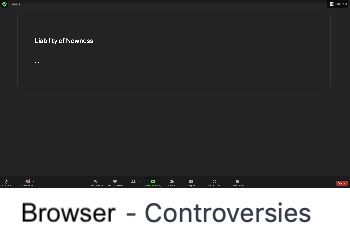
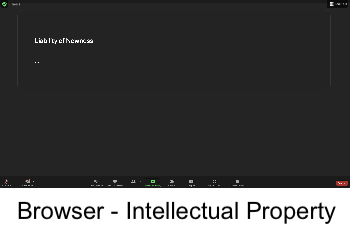
update

Changed region(s): [[0.0286, 0.8448, 0.9714, 0.9655]]

diff --git a/liabilitynewness.html b/liabilitynewness.html
@@ -45,8 +45,7 @@
     <img class = "w-100 h-100 mt-4 mb-4 position-absolute" src="images/chat_background.png">
     <div class="container mt-5 mb-5 mr-1 ml-3 position-absolute">
     <p class="mt-5 mb-5 mr-1 ml-5 p-3 position-relative rounded" style="background-color:rgb(239, 239, 239);" >
-            It is fascinating to see Zoom’s success despite all these controversies. Dr. Yoo, how did this happen? How was zoom able to become so popular despite these controversies? That’s a great question. And I think that in some ways, we can frame this as a question of how Zoom was able to overcome the problem known as the liability of newness. For many, the introduction of widespread use of virtual communication technologies was a very new thing. Let’s take a trip back to the time at which there was a lot of uncertainty. People weren’t sure they were going to be fully remote or fully virtual. What technologies could be used? What would be the protocol for education? Amidst this time of uncertainty, consider teachers in classrooms, professors in lecture halls, businesspeople in glass buildings all of a sudden being introduced to this somewhat foreign technology that proposes to replace in-person interaction. How would this new, foreign technology have had to be marketed such that it could help tip the scales toward transitioning to fully-remote learning on that technological platform? Here, I think we can look to history to see how innovators of the past overcame such potential hurdles. In 2001, Andrew Hargadon from the University of California and Yellowlees Douglas from the University of Florida published a paper detailing the intentional design and marketing decisions that Edison made to overcome the liability of newness in the system of electric light. At the time, gas lighting was the lighting to use. Consumers were used to gas lighting - the various methods of gas metering and paying for gas, and gas companies were used to the profits that came with the business. To establish the legitimacy of the system of electric light, Edison encapsulated the system of electric light within the infrastructure vocabulary of the system of gas lighting. For example, Edison’s electric lights came with wall designs that were similar to those of gas lighting. The wiring of electric lights were built around gas pipes. And power for electric lighting was produced in central stations, similar to gas lighting. Edison even went so far as to use the same metering technology. Why did Edison do this? By grounding the principles of electric lighting in the norms of the day, he could ease consumers into accepting the new technology. Now bringing us back to today, we can see how zoom was able to establish its legitimacy. In-person education is the established protocol for teaching and learning. To establish its legitimacy, we see how Zoom adopted vocabulary and structure from in-person learning. For example, Zoom adopted a whiteboard function that allows teachers and students to draw figures and write text, similar to classroom whiteboards. Zoom also adopted a “raise hand” function that shows a virtual hand raised when a student wants to ask a question. This doesn’t mean students actually raise their physical hand, but by borrowing the vocabulary of what students and teachers are familiar with, Zoom eases itself into market domination by providing a degree of comfort to its potential consumers. The list goes on. From breakout rooms that provide a structure similar to students physically “breaking out” into smaller groups as with in-person learning, to the waiting room function that mirrors the structure of in-person appointments that have a physical waiting room with a line of people, zoom has made many intentional design decisions that involve the function and naming of various features that have allowed it to flourish as an alternative to in-person communication.
-    
+            It is fascinating to see Zoom’s success despite all these controversies. How was Zoom able to become so popular despite these controversies? We can frame this as a question of how Zoom was able to overcome the problem known as the liability of newness. For many, the introduction of widespread use of virtual communication technologies was a very new thing. Let’s take a trip back to the time at which there was a lot of uncertainty. People weren’t sure they were going to be fully remote or fully virtual. What technologies could be used? What would be the protocol for education? Amidst this time of uncertainty, consider teachers in classrooms, professors in lecture halls, businesspeople in glass buildings all of a sudden being introduced to this somewhat foreign technology that proposes to replace in-person interaction. How would this new, foreign technology have had to be marketed such that it could help tip the scales toward transitioning to fully-remote learning on that technological platform? Here, I think we can look to history to see how innovators of the past overcame such potential hurdles. In 2001, Andrew Hargadon from the University of California and Yellowlees Douglas from the University of Florida published a paper detailing the intentional design and marketing decisions that Edison made to overcome the liability of newness in the system of electric light. At the time, gas lighting was the lighting to use. Consumers were used to gas lighting - the various methods of gas metering and paying for gas, and gas companies were used to the profits that came with the business. To establish the legitimacy of the system of electric light, Edison encapsulated the system of electric light within the infrastructure vocabulary of the system of gas lighting. For example, Edison’s electric lights came with wall designs that were similar to those of gas lighting. The wiring of electric lights were built around gas pipes. And power for electric lighting was produced in central stations, similar to gas lighting. Edison even went so far as to use the same metering technology. Why did Edison do this? By grounding the principles of electric lighting in the norms of the day, he could ease consumers into accepting the new technology. Now bringing us back to today, we can see how zoom was able to establish its legitimacy. In-person education is the established protocol for teaching and learning. To establish its legitimacy, we see how Zoom adopted vocabulary and structure from in-person learning. For example, Zoom adopted a whiteboard function that allows teachers and students to draw figures and write text, similar to classroom whiteboards. Zoom also adopted a “raise hand” function that shows a virtual hand raised when a student wants to ask a question. This doesn’t mean students actually raise their physical hand, but by borrowing the vocabulary of what students and teachers are familiar with, Zoom eases itself into market domination by providing a degree of comfort to its potential consumers. The list goes on. From breakout rooms that provide a structure similar to students physically “breaking out” into smaller groups as with in-person learning, to the waiting room function that mirrors the structure of in-person appointments that have a physical waiting room with a line of people, zoom has made many intentional design decisions that involve the function and naming of various features that have allowed it to flourish as an alternative to in-person communication.
     </p>
     </div>
 

diff --git a/scot.html b/scot.html
@@ -137,35 +137,42 @@
        }
     </script>
 
+    <div class="mt-3">
     <p id = "scot_tech" style = "visibility: hidden; background-color:rgb(239, 239, 239);" class="p-5 w-100 position-absolute rounded">
-        The rise, sustenance, future outlook of Zoom is both social and technical in nature - aka sociotechnical in nature.
+      With all of these concerns in mind, who do you think has the power to control zoom’s development going forward? I feel like there are a number of different players, or should I say social groups *wink wink*, in the development of remote work technologies. I think that the tech companies and the software engineers working in them have all the control in the development of remote work software. They are the ones that are doing all the programming for the user interface and feature. This social group sees remote work technologies as an avenue for revenue since they require users to pay for certain features, so this affects the development of the product most, because they want the technology to be efficient (meaning maximizing revenue with as few resources as possible). This means that the product team may initially cut corners in privacy to develop more visible features, like adding the ability to make emoji reactions on your favorite video conferencing app.<br><br>
 
-        * we have seen schools and workplaces open in-person in the past year. Data from CDC’s COVID Data Tracker show that, in the United States, the daily number of covid cases is dropping rapidly. And with such positive statistics, I hear that Princeton University recently retracted its mask mandate for students, staff, and faculty. This puts the remote work technology that we have been heavily relying on the past couple years in a very interesting position. So I wanted to look at our collective experience with remote work technologies, specifically the communications technologies, and see where it is headed and see if it will be remembered by future generations as a sort of blast from the past.
-
-        * According to the Pew Research Center, after the coronavirus outbreak, approximately 51% of employed adults shifted to remote working. Such drastic change in work styles gave rise to technologies like zoom, google meet, and microsoft teams. Just last month, in March, Zoom released 10 new updates. Among them is an interesting, new feature release from March 21 that allows users to replace their personas with 3-d virtual avatars that, if I were to just imagine, might introduce some fun into long, strenuous virtual meetings. Largely, though, when we consider these remote working technologies, we see them as replacements for in-person educational implements. Zoom, for example, displays a whiteboard, annotation tools, and a “raise hand” feature that mirror certain aspects of in-person education.
+      The business minds behind video conferencing technologies want revenue and educational institutions want a unified platform, so we have technologies like zoom, microsoft, and google offering different priced institution-wide licenses.
     </p>
 
     <p id = "scot_remoteworkers" style = "visibility: hidden; background-color:rgb(239, 239, 239);" class="p-5 w-100 position-absolute rounded" style="background-color:rgb(239, 239, 239);">
-        oink
+      I have a slightly different interpretation. I believe that the software companies are not the only ones that impact how remote working technologies progress. Let’s take a look at the remote workers, hackers and pranksters, as well as educational institutions and legal persons, and how they play a role in how remote work technology develops. Remote workers view this technology as a way of conducting work in a flexible, convenient, safe, private, and reliable manner. <br><br>
+
+      In our case, security and privacy demands from end users as well as our awareness of the desires of hackers and prankers have led to the development of extra security features - in the form of meeting passwords in zoom meetings and the waiting-room-like feature in microsoft teams and google meets that prevents bombers from directly entering the meeting room<br><br>
+
+      Remote workers wanting video communication to be more fun have led to the development of fun, customizable features, such as custom video backgrounds, zoom makeup masks, and Together Mode on Microsoft Teams that uses AI to place participants in one shared background. 
     </p>
 
     <p id = "scot_pranksters" style = "visibility: hidden; background-color:rgb(239, 239, 239);" class="p-5 w-100 position-absolute rounded" style="background-color:rgb(239, 239, 239);">
-        hello
+      Hackers and pranksters view this technology as a creative workspace for pulling pranks, one example being Zoombombing where these individuals join and disrupt these meetings.  <br><br>
+      
+      In our case, security and privacy demands from end users as well as our awareness of the desires of hackers and prankers have led to the development of extra security features - in the form of meeting passwords in zoom meetings and the waiting-room-like feature in microsoft teams and google meets that prevents bombers from directly entering the meeting room
     </p>
 
     <p id = "scot_education" style = "visibility: hidden; background-color:rgb(239, 239, 239);" class="p-5 w-100 position-absolute rounded" style="background-color:rgb(239, 239, 239);">
-        ?
+      Educational institutions see this technology as a unified educational platform; in other words, educational institutions would rather have a single institutional license that helps bring its students into the same network, rather than having each student create their own zoom account on their personal emails. <br><br>
+
+      The business minds behind video conferencing technologies want revenue and educational institutions want a unified platform, so we have technologies like zoom, microsoft, and google offering different priced institution-wide licenses.
     </p>
 
     <p id = "scot_legal" style = "visibility: hidden; background-color:rgb(239, 239, 239);" class="p-5 w-100 position-absolute rounded" style="background-color:rgb(239, 239, 239);">
-        alo
+      People working in law may see this technology as an avenue through which privacy must be preserved and accountability is clear.
     </p>
 
     <p id = "scot_closure" style = "visibility: hidden; background-color:rgb(239, 239, 239);" class="p-5 w-100 position-absolute rounded" style="background-color:rgb(239, 239, 239);">
-        a
+      The Social Construction of Technology model introduced by Kline and Pinch in 1996 may help us to understand why.. Isn’t the process of various social groups negotiating the design of remote work technology called interpretative flexibility? So what I understand is that this means that remote workers, hackers and pranksters, software engineers and companies, and educational institutions are pulling the development of the technologies in different directions. The various social groups competing against each other have culminated in the remote work technology we have today. 
     </p>
 
-
+</div>
 
 
     <!-- Footer - zoom buttons -->

diff --git a/bibliography.html b/bibliography.html
@@ -36,12 +36,31 @@
 
 
     <div class="container mt-4 mb-5 pt-5 pb-5" style="border: 1px solid rgb(55, 55, 55);border-radius: 25px; background-color: rgb(35, 35, 35);">
-    <h3 class="mt-5 mb-5 mr-5 ml-5" style="color:white">Bibliography</h3>
-    <h5 class="mt-5 mb-5 mr-5 ml-5" style="color:white">
-        * I’ll focus on Zoom, since it’s received the most press from what I know, but I’ll also touch on Microsoft Teams. One primary concern deals with security and privacy. Just last year around this time, BBC reported that Zoom was accused of transmitting user-data to facebook as well as being economical with the truth when it came to guaranteed end-to-end encryption. There have also been reports by an ex-NSA hacker of potential for microphone and webcam hijacking. The Verge and Bloomberg reported on Zoom disclosing personal information to third parties. Now this was about a year ago, but even now, we see that zoom is still working out the kinks. Just yesterday on April 1, zoom released a new feature that quote “Hides user personal information in contact details. The affected fields are: personal note, company, department, manager, job title, locations, internal number, extension, direct number, phone number, email.” That’s a lot, but privacy is not the only concern.
+    <h3 class="mt-5 mb-5 mr-5 ml-5" style="color:white;">Bibliography</h3>
+    <p class="mt-5 mb-5 mr-5 ml-5" style="color:white;font-size:large;">
+        [1]    J. Oakman, N. Kinsman, R. Stuckey, M. Graham, and V. Weale, “A rapid review of mental and physical health effects of working at home: how do we optimise health?,” BMC Public Health, vol. 20, no. 1, Art. no. 1, Dec. 2020, doi: 10.1186/s12889-020-09875-z.
+<br>
+        [2]    P. A. David, “Clio and the Economics of QWERTY,” The American Economic Review, vol. 75, no. 2, pp. 332–337, 1985.
+        <br>[3]    “Corporate America is coming around to remote work. But more big changes lie ahead.,” Washington Post. Accessed: Apr. 03, 2022. [Online]. Available: https://www.washingtonpost.com/business/2022/01/15/remote-work-omicron/
+        <br>[4]    CDC, “COVID Data Tracker,” Centers for Disease Control and Prevention, Mar. 28, 2020. https://covid.cdc.gov/covid-data-tracker (accessed Apr. 03, 2022).
+        <br>[5]    D. Reinecke, “EGR 277 Lecture 3 Notes.” https://princeton.instructure.com/courses/6109/files/1217971?module_item_id=255301 (accessed Apr. 03, 2022).
+        <br>[6]    D. Reinecke, “EGR277 Lecture 17 Notes.” https://princeton.instructure.com/courses/6109/files/1368482?module_item_id=274925 (accessed Apr. 03, 2022).
+        <br>[7]    S. University, “Four causes for ‘Zoom fatigue’ and their solutions,” Stanford News, Feb. 23, 2021. https://news.stanford.edu/2021/02/23/four-causes-zoom-fatigue-solutions/ (accessed Apr. 03, 2022).
+        <br>[8]    K. Parker, J. M. Horowitz, and R. Minkin, “How the Coronavirus Outbreak Has – and Hasn’t – Changed the Way Americans Work,” Pew Research Center’s Social & Demographic Trends Project, Dec. 09, 2020. https://www.pewresearch.org/social-trends/2020/12/09/how-the-coronavirus-outbreak-has-and-hasnt-changed-the-way-americans-work/ (accessed Apr. 03, 2022).
+        <br>[9]    “New Microsoft Teams features and tips to make virtual interactions and meetings more natural, engaging and human,” Microsoft Malaysia News Center, Jul. 09, 2020. https://news.microsoft.com/en-my/2020/07/09/new-microsoft-teams-features-and-tips-to-make-virtual-interactions-more-natural-engaging-and-human/ (accessed Apr. 03, 2022).
+        <br>[10]    “Release notes for April 1, 2022,” Zoom Support. https://support.zoom.us/hc/en-us/articles/5189043388045-Release-notes-for-April-1-2022 (accessed Apr. 03, 2022).
+        <br>[11]    B. R. Ph.D, “Remote Work Is Here To Stay And Will Increase Into 2023, Experts Say,” Forbes. https://www.forbes.com/sites/bryanrobinson/2022/02/01/remote-work-is-here-to-stay-and-will-increase-into-2023-experts-say/ (accessed Apr. 03, 2022).
+        <br>[12]    B. R. Ph.D, “Remote Workers Report Negative Mental Health Impacts, New Study Finds,” Forbes. https://www.forbes.com/sites/bryanrobinson/2021/10/15/remote-workers-report-negative-mental-health-impacts-new-study-finds/ (accessed Apr. 03, 2022).
+        <br>[13]    J. K. published, “This Microsoft Teams update could be the most controversial yet,” TechRadar, Sep. 07, 2021. https://www.techradar.com/news/this-microsoft-teams-update-could-be-the-most-controversial-yet (accessed Apr. 03, 2022).
+        <br>[14]    “U.S. COVID-19 transmission rate by state,” Statista. https://www.statista.com/statistics/1119412/covid-19-transmission-rate-us-by-state/ (accessed Apr. 03, 2022).
+        <br>[15]    R. Kline and T. Pinch, “Users as Agents of Technological Change: The Social Construction of the Automobile in the Rural United States,” Technology and Culture, vol. 37, no. 4, pp. 763–795, 1996, doi: 10.2307/3107097.
+        <br>[16]    A. B. Hargadon and Y. Douglas, “When Innovations Meet Institutions: Edison and the Design of the Electric Light,” Administrative Science Quarterly, vol. 46, no. 3, pp. 476–501, 2001, doi: 10.2307/3094872.
+        <br>[17]    “Zoom boss apologises for security issues and promises fixes,” BBC News, Apr. 02, 2020. Accessed: Apr. 03, 2022. [Online]. Available: https://www.bbc.com/news/technology-52133349
+        <br>[18]    T. Warren, “Zoom faces a privacy and security backlash as it surges in popularity,” The Verge, Apr. 01, 2020. https://www.theverge.com/2020/4/1/21202584/zoom-security-privacy-issues-video-conferencing-software-coronavirus-demand-response (accessed Apr. 03, 2022).
+<br>[19]    “Zoom Releases by Date – Zoom Support.” https://support.zoom.us/hc/en-us/sections/360008531132-Zoom-Releases-by-Date (accessed Apr. 03, 2022).
+<br>[20]    “Zoom Sued for Allegedly Illegally Disclosing Personal Data,” Bloomberg.com, Mar. 31, 2020. Accessed: Apr. 03, 2022. [Online]. Available: https://www.bloomberg.com/news/articles/2020-03-31/zoom-sued-for-allegedly-illegally-disclosing-personal-data
 
-        * I believe Microsoft Teams has also had their fair share of backlash for controversial features. TechRadar expressed concerns on Microsoft allowing meeting moderators to censor communication in a meeting such as deleting certain chat messages which could potentially lead to serious miscommunication and loss of context. 
-    </h5>
+    </p>
     </div>
 
 

diff --git a/ramifications_redirect.html b/ramifications_redirect.html
@@ -36,12 +36,17 @@
 
 
     <div class="container mt-4 mb-5 pt-5 pb-5" style="border: 1px solid rgb(55, 55, 55);border-radius: 25px; background-color: rgb(35, 35, 35);">
-        <h3 class="mt-5 mb-5 mr-5 ml-5" style="color:white">Digital Divide</h3>
-        <h5 class="mt-5 mb-5 mr-5 ml-5" style="color:white">
-            * does it cause additional problems or solve previous problems?
-            I’ve heard talk about the Digital Divide with respect to COVID era. Can we talk some about how Zoom has factored into this? (Technology and Identity - Digital Divide)
-            Nobline:
-            Research on market penetration of zoom and digital divide        </h5>
+        <h3 class="mt-5 mb-5 mr-5 ml-5" style="color:white;">Ramifications</h3>
+        <p class="mt-5 mb-5 mr-5 ml-5" style="color:white;font-size:large;">
+            There seems to be a high chance that today’s remote work technology will have a lasting impact on society. Remote workers have gotten a taste of major flexibility in their work and it is unlikely that they will easily let go of this major convenience, a sentiment documented in the Washington Post and Forbes magazine.<br><br>
+            However, there are also major issues with maintaining a remote work structure. For starters, colleagues would be spending less and less time physically interacting with each other in the physical office, leading to loss of company culture.<br><br>
+            
+            There have been studies conducted on exploring the negative physical and mental health of remote workers. There’s zoom fatigue, negative mental health. BMC Public Health published a paper documenting some of the health effects, including stress and strain.<br><br>
+
+            With these negative impacts, workplaces are looking for a mixture of both physical and remote working. Companies are looking into hybrid-working conditions that have both the flexible qualities of remote work technologies as well as maintaining company values through time-to-time in-person interactions. And I think this might be how we adjust to post-COVID times and live with some of the technologies we have gotten used to.
+        
+        
+        </p>
     </div>
 
 

diff --git a/lock-in.html b/lock-in.html
@@ -37,11 +37,9 @@
 
     <div class="container mt-4 mb-5 pt-5 pb-5" style="border: 1px solid rgb(55, 55, 55);border-radius: 25px; background-color: rgb(35, 35, 35);">
         <h3 class="mt-5 mb-5 mr-5 ml-5" style="color:white">Lock-in</h3>
-        <h5 class="mt-5 mb-5 mr-5 ml-5" style="color:white">
-            * does it cause additional problems or solve previous problems?
-            I’ve heard talk about the Digital Divide with respect to COVID era. Can we talk some about how Zoom has factored into this? (Technology and Identity - Digital Divide)
-            Nobline:
-            Research on market penetration of zoom and digital divide        </h5>
+        <p class="mt-5 mb-5 mr-5 ml-5" style="color:white; font-size:large;">
+            It also helped that zoom became in some ways, incorporated into Canvas’s platform, which allowed for the larger acceptance of the technology in university institutions as replacements for lectures and precepts. And once this technology became established, as researcher Paul David documented with the QWERTY keyboard layout, this quote “lock-in” of zoom (as opposed to other video conferencing technologies) was hard to reverse due to the quote high costs of software conversion. 
+        </p>
     </div>
 
 

diff --git a/property_redirect.html b/property_redirect.html
@@ -1,7 +1,7 @@
 <!DOCTYPE html>
 <html>
 <head>
-  <title>Controversies</title>
+  <title>Intellectual Property</title>
   <meta charset="utf-8">
     <meta name="viewport" content="width=device-width, initial-scale=1, shrink-to-fit=no">
 
@@ -36,12 +36,12 @@
 
 
     <div class="container mt-4 mb-5 pt-5 pb-5" style="border: 1px solid rgb(55, 55, 55);border-radius: 25px; background-color: rgb(35, 35, 35);">
-        <h3 class="mt-5 mb-5 mr-5 ml-5" style="color:white">Digital Divide</h3>
-        <h5 class="mt-5 mb-5 mr-5 ml-5" style="color:white">
+        <h3 class="mt-5 mb-5 mr-5 ml-5" style="color:white">Intellectual Property</h3>
+        <p class="mt-5 mb-5 mr-5 ml-5" style="color:white; font-size:large;">
             * does it cause additional problems or solve previous problems?
             I’ve heard talk about the Digital Divide with respect to COVID era. Can we talk some about how Zoom has factored into this? (Technology and Identity - Digital Divide)
             Nobline:
-            Research on market penetration of zoom and digital divide        </h5>
+            Research on market penetration of zoom and digital divide        </p>
     </div>
 
 

diff --git a/digital-divide.html b/digital-divide.html
@@ -36,12 +36,12 @@
 
 
     <div class="container mt-4 mb-5 pt-5 pb-5" style="border: 1px solid rgb(55, 55, 55);border-radius: 25px; background-color: rgb(35, 35, 35);">
-        <h3 class="mt-5 mb-5 mr-5 ml-5" style="color:white">Digital Divide</h3>
-        <h5 class="mt-5 mb-5 mr-5 ml-5" style="color:white">
+        <h3 class="mt-5 mb-5 mr-5 ml-5" style="color:white;">Digital Divide</h3>
+        <p class="mt-5 mb-5 mr-5 ml-5" style="color:white;font-size:large;">
             * does it cause additional problems or solve previous problems?
             I’ve heard talk about the Digital Divide with respect to COVID era. Can we talk some about how Zoom has factored into this? (Technology and Identity - Digital Divide)
             Nobline:
-            Research on market penetration of zoom and digital divide        </h5>
+            Research on market penetration of zoom and digital divide        </p>
     </div>
 
 
